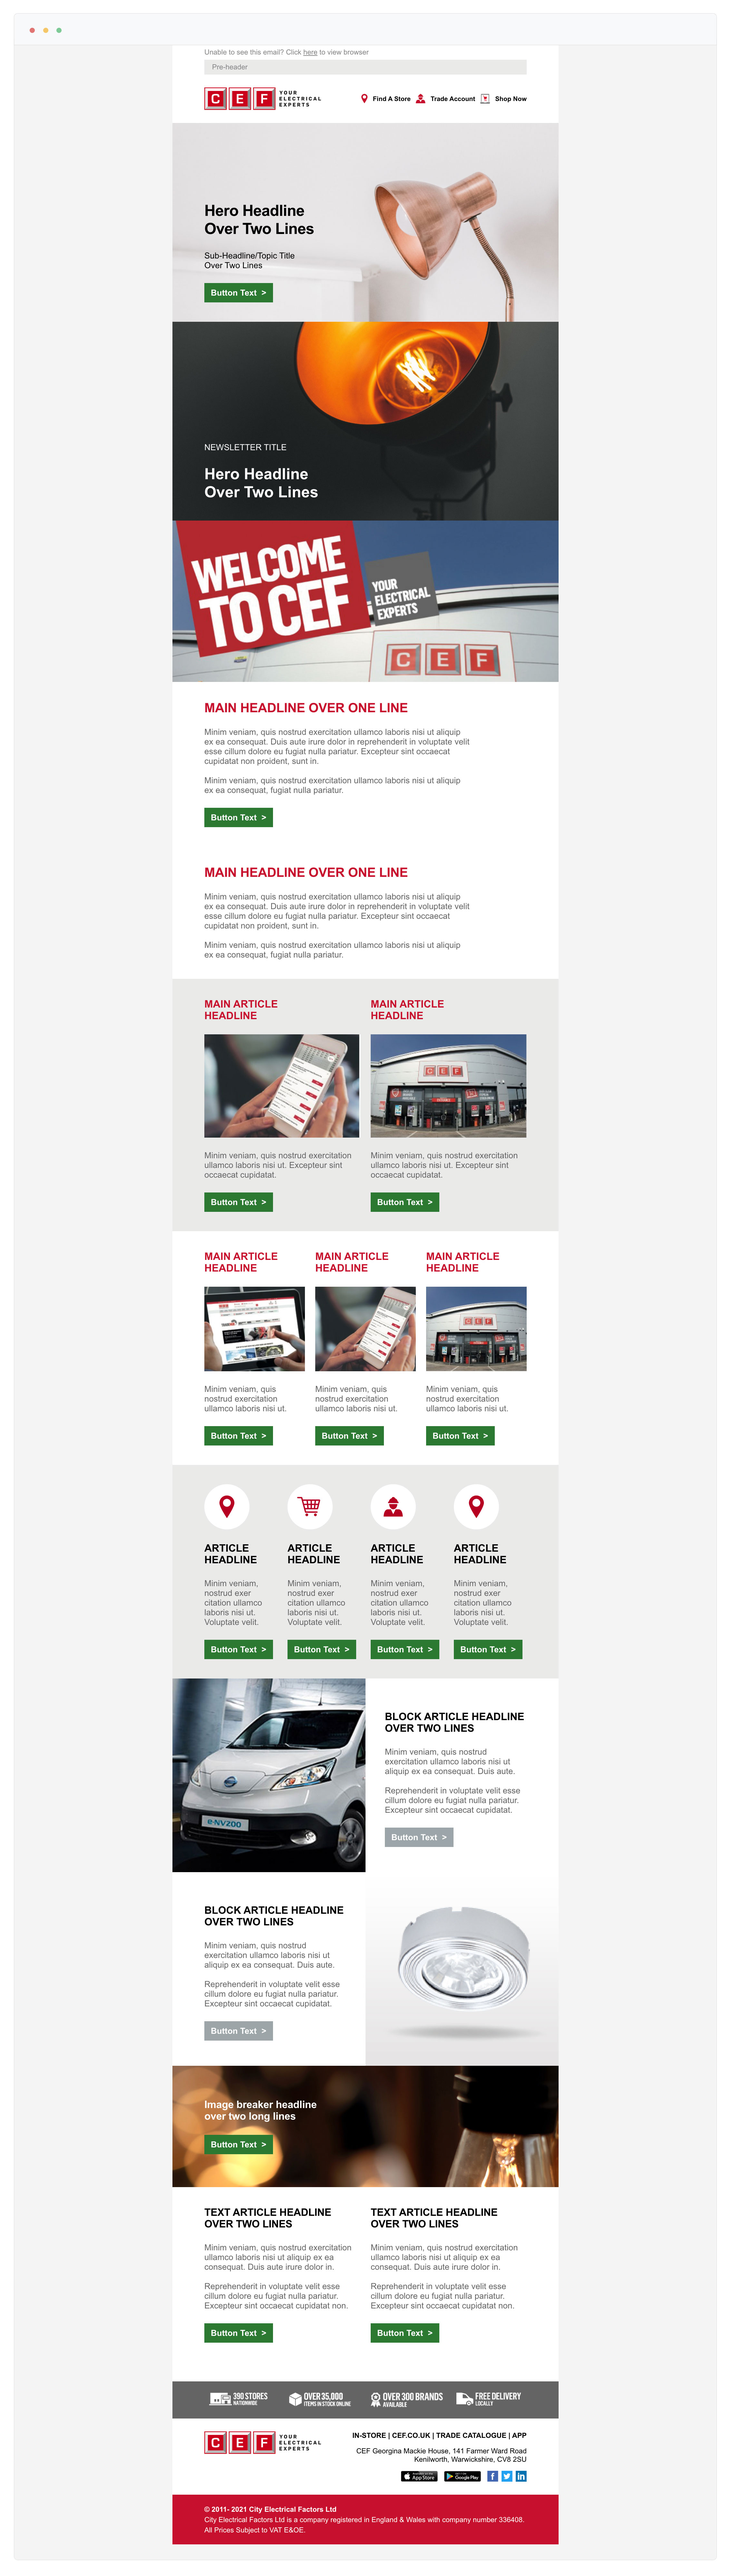
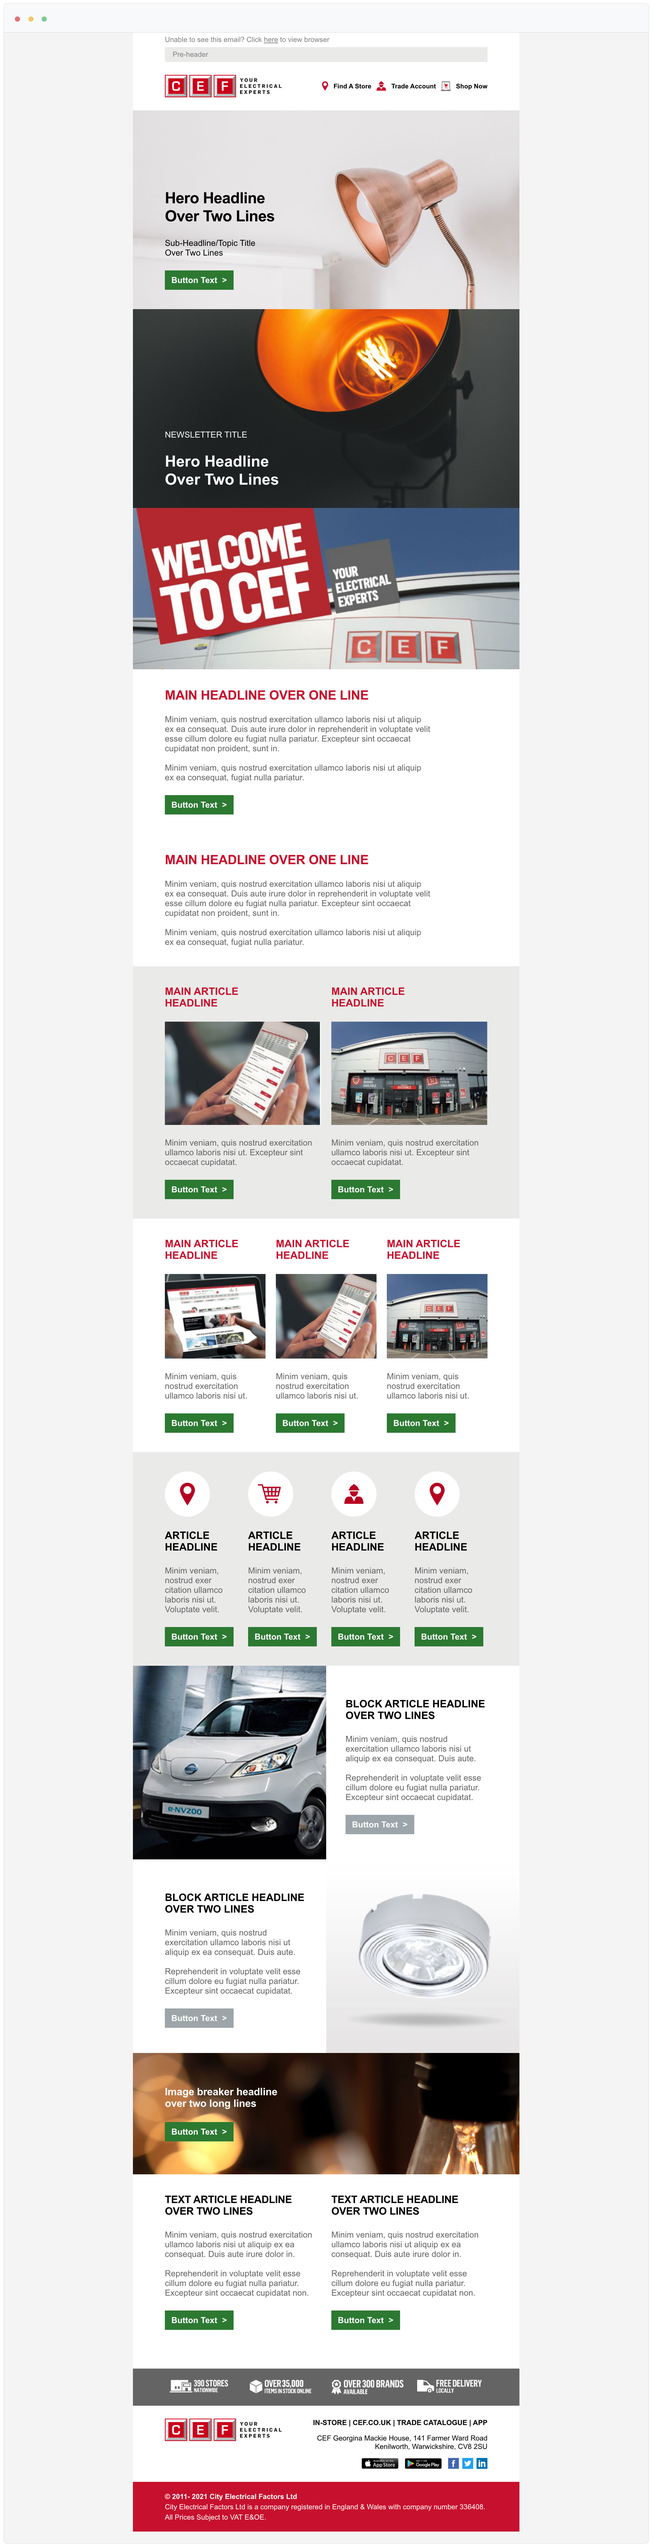
Updates to my portfolio

Changed region(s): [[0.1868, 0.0, 0.8093, 0.997]]

diff --git a/email-templates/cef/README.md b/email-templates/cef/README.md
@@ -1,1 +1,1 @@
-<img src="preview-cef-email-template.jpg" alt="CEF email template" width="100%" />
+<img src="preview-cef-email-template.jpg" alt="CEF email template" width="1012" />
